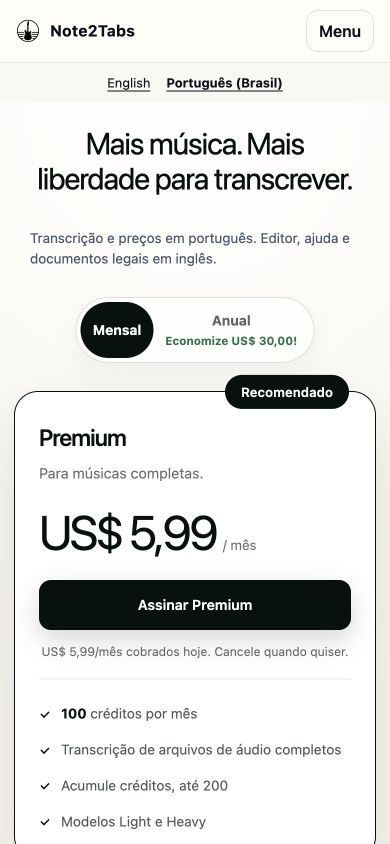
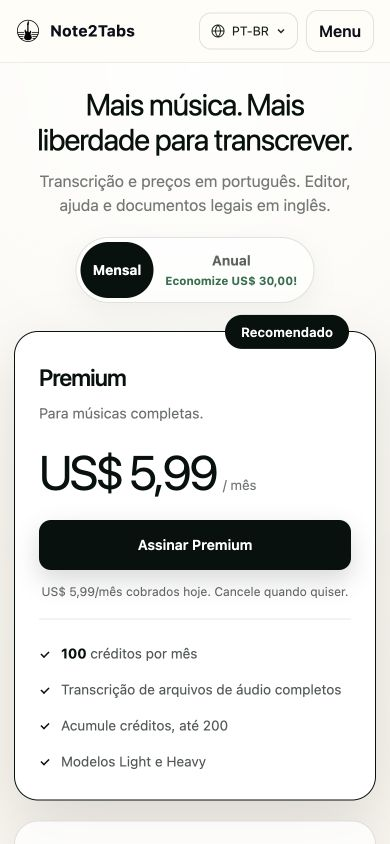
fix: align locale notice and collapse language selector

diff --git a/components/LanguageSelector.tsx b/components/LanguageSelector.tsx
@@ -1,20 +1,54 @@
 import Link from "next/link";
 import { useRouter } from "next/router";
+import { useEffect, useRef } from "react";
 import { sendEvent } from "../lib/analytics";
 import { LOCALE_VERSION, localeSwitchHref, supportsLocalizedPath, type AppLocale } from "../lib/i18n/locale";
 import { useLocale } from "../lib/i18n/react";
+
 export default function LanguageSelector() {
   const router = useRouter();
   const { locale } = useLocale();
+  const menuRef = useRef<HTMLDetailsElement>(null);
+  const label = locale === "pt-BR" ? "Português (Brasil)" : "English";
+
+  useEffect(() => {
+    if (menuRef.current) menuRef.current.open = false;
+  }, [router.asPath]);
+
+  useEffect(() => {
+    const closeOutside = (event: PointerEvent) => {
+      if (menuRef.current && !menuRef.current.contains(event.target as Node)) menuRef.current.open = false;
+    };
+    document.addEventListener("pointerdown", closeOutside);
+    return () => document.removeEventListener("pointerdown", closeOutside);
+  }, []);
+
   if (process.env.NEXT_PUBLIC_PT_BR_AVAILABLE !== "true" || !supportsLocalizedPath(router.asPath)) return null;
   const select = (target: AppLocale) => {
+    if (menuRef.current) menuRef.current.open = false;
     document.cookie = `n2t_locale=${target}; Path=/; Max-Age=2592000; SameSite=Lax`;
     try { window.localStorage.setItem("n2t:preferred-locale", target); } catch { /* choice still works without storage */ }
     sendEvent("language_selected", { previous_locale: locale, selected_locale: target, locale_source: "selector", locale_version: LOCALE_VERSION });
   };
-  return <nav className="language-selector" aria-label={locale === "pt-BR" ? "Idioma" : "Language"}>
-    {([['en', 'English'], ['pt-BR', 'Português (Brasil)']] as const).map(([target, label]) =>
-      <Link key={target} href={localeSwitchHref(router.asPath, target)} hrefLang={target} lang={target}
-        aria-current={locale === target ? "true" : undefined} onClick={() => select(target)}>{label}</Link>)}
-  </nav>;
+
+  return <details ref={menuRef} className="language-selector"
+    onBlur={(event) => {
+      if (!event.currentTarget.contains(event.relatedTarget)) event.currentTarget.open = false;
+    }}
+    onKeyDown={(event) => {
+      if (event.key !== "Escape") return;
+      event.currentTarget.open = false;
+      event.currentTarget.querySelector("summary")?.focus();
+    }}>
+    <summary title={label} aria-label={`${locale === "pt-BR" ? "Idioma" : "Language"}: ${label}`}>
+      <svg viewBox="0 0 24 24" aria-hidden="true"><circle cx="12" cy="12" r="9" /><path d="M3 12h18M12 3c5 5 5 13 0 18-5-5-5-13 0-18Z" /></svg>
+      <span>{locale === "pt-BR" ? "PT-BR" : "EN"}</span>
+      <svg className="language-selector__chevron" viewBox="0 0 12 12" aria-hidden="true"><path d="m3 4.5 3 3 3-3" /></svg>
+    </summary>
+    <nav className="language-selector__options" aria-label={locale === "pt-BR" ? "Idioma" : "Language"}>
+      {([['en', 'English'], ['pt-BR', 'Português (Brasil)']] as const).map(([target, name]) =>
+        <Link key={target} href={localeSwitchHref(router.asPath, target)} hrefLang={target} lang={target}
+          aria-current={locale === target ? "true" : undefined} onClick={() => select(target)}>{name}</Link>)}
+    </nav>
+  </details>;
 }

diff --git a/styles/globals.css b/styles/globals.css
@@ -14252,8 +14252,17 @@ input[type="number"] {
   .pricing-page--focused .pricing-billing-toggle__saving { font-size: .72rem; }
 }
 
-/* Phase-one locale selector: compact, keyboard-accessible, and wrap-safe. */
-.language-selector { display:flex; flex-wrap:wrap; justify-content:center; gap:8px 16px; padding:10px 16px; font-size:.8rem; }
-.language-selector a { color:inherit; text-decoration:underline; text-underline-offset:3px; }
-.language-selector a[aria-current="true"] { font-weight:700; }
-.locale-scope-note { max-width:760px; margin:16px auto; padding:12px 16px; color:#475569; font-size:.85rem; line-height:1.5; }
+/* Language options open on demand without adding a row above the page. */
+.language-selector { position:relative; flex-shrink:0; font-size:.78rem; }
+.language-selector summary { display:flex; align-items:center; gap:6px; padding:8px 10px; border:1px solid rgba(6,17,13,.12); border-radius:12px; color:#17221c; cursor:pointer; list-style:none; }
+.language-selector summary::-webkit-details-marker { display:none; }
+.language-selector summary:hover { background:rgba(6,17,13,.04); }
+.language-selector summary:focus-visible { outline:2px solid #0d755d; outline-offset:3px; }
+.language-selector summary svg { width:16px; height:16px; fill:none; stroke:currentColor; stroke-width:1.5; }
+.language-selector summary .language-selector__chevron { width:12px; height:12px; }
+.language-selector[open] .language-selector__chevron { transform:rotate(180deg); }
+.language-selector__options { position:absolute; top:calc(100% + 8px); right:0; z-index:120; display:grid; width:190px; padding:6px; background:#fffdfa; border:1px solid rgba(6,17,13,.12); border-radius:14px; box-shadow:0 12px 32px rgba(6,17,13,.12); }
+.language-selector__options a { padding:10px 12px; border-radius:8px; color:inherit; text-decoration:none; }
+.language-selector__options a:hover, .language-selector__options a:focus-visible { background:rgba(13,117,93,.08); }
+.language-selector__options a[aria-current="true"] { color:#0d755d; font-weight:700; }
+.locale-scope-note, .pricing-page__hero .locale-scope-note { max-width:560px; margin:14px auto 0; padding:0; color:rgba(6,17,13,.56); font-size:.8rem; line-height:1.5; text-align:center; text-wrap:balance; }

diff --git a/pages/pricing.tsx b/pages/pricing.tsx
@@ -263,7 +263,7 @@ export default function PricingPage() {
   return <>
     <SeoHead title={t("Pricing | Note2Tabs")} description={description} canonicalPath="/pricing" jsonLd={pricingJsonLd} />
     <main className="page page-pricing"><section className="pricing-page pricing-page--focused"><div className="container pricing-page__container">
-      <header className="pricing-page__hero"><h1>{t("More music. More room to transcribe.")}</h1></header>{locale === "pt-BR" && <p className="locale-scope-note">{t("Transcription and pricing in Portuguese. The editor, help and legal documents are in English.")}</p>}
+      <header className="pricing-page__hero"><h1>{t("More music. More room to transcribe.")}</h1>{locale === "pt-BR" && <p className="locale-scope-note">{t("Transcription and pricing in Portuguese. The editor, help and legal documents are in English.")}</p>}</header>
       <div className="pricing-billing-toggle" role="group" aria-label={t("Billing interval")}>
         {(["monthly", "yearly"] as const).map((interval) => <button key={interval} type="button" aria-pressed={billingInterval === interval} className={billingInterval === interval ? "is-active" : ""} onClick={() => {
           if (interval === billingInterval) return;

diff --git a/pages/_app.tsx b/pages/_app.tsx
@@ -2,7 +2,6 @@ import { localeFromPath } from "../lib/i18n/locale";
 import { translate } from "../lib/i18n/translate";
 import { DisplayCurrencyContext } from "../lib/useDisplayCurrency";
 import { LocaleProvider } from "../lib/i18n/react";
-import LanguageSelector from "../components/LanguageSelector";
 import type { AppProps } from "next/app";
 import dynamic from "next/dynamic";
 import Head from "next/head";
@@ -93,7 +92,6 @@ export default function MyApp({ Component, pageProps: { session, ...pageProps } 
         <RouteLoadingIndicator />
         <a className="skip-link" href="#main-content">{translate("Skip to main content", localeFromPath(router.asPath))}</a>
         <NavBar editorRevealMode={isGteEditorPage} />
-        <LanguageSelector />
         <div
           id="main-content"
           className="flex-1"

diff --git a/components/NavBar.tsx b/components/NavBar.tsx
@@ -1,3 +1,4 @@
+import LanguageSelector from "./LanguageSelector";
 import { stripLocale } from "../lib/i18n/locale";
 import { localizedSignIn as signIn } from "../lib/i18n/auth";
 import { useLocale } from "../lib/i18n/react";
@@ -351,6 +352,7 @@ export default function NavBar({ editorRevealMode = false }: NavBarProps) {
           </div>
         </nav>
         <div className="nav-actions">
+          <LanguageSelector />
           <button
             ref={menuButtonRef}
             className="menu-toggle"
